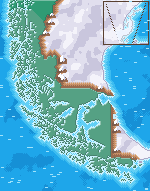
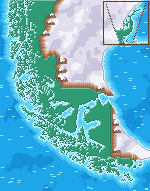
Verde único para lo visitado e ícono de montaña con la bandera de Chile
- Las comunas visitadas se ven todas en el mismo verde (#2f9b74, el que tenía
  Aysén) en vez de un color por zona; mapas PNG regenerados y leyenda ajustada.
- Nuevo ícono de pestaña: montaña nevada con la bandera de Chile en la cumbre
  (favicon.svg, favicon-32.png y apple-touch-icon.png, con ?v=2 para saltarse
  la caché). El logo de la barra superior usa el mismo dibujo.
- build-pages reescribe todas las rutas absolutas de index.html.

Claude-Session: https://claude.ai/code/session_01HrzxiAr7BhjgLdTeuUDqVr

diff --git a/public/index.html b/public/index.html
@@ -6,7 +6,9 @@
   <title>Visited · Chile</title>
   <meta name="description" content="Registra las regiones y comunas de Chile que has visitado. Califica, reseña y mira cómo se pinta tu mapa pixel art.">
   <meta name="theme-color" content="#1ea6ea">
-  <link rel="icon" href="/img/favicon.svg" type="image/svg+xml">
+  <link rel="icon" href="/img/favicon.svg?v=2" type="image/svg+xml">
+  <link rel="icon" href="/img/favicon-32.png?v=2" type="image/png" sizes="32x32">
+  <link rel="apple-touch-icon" href="/img/apple-touch-icon.png?v=2">
   <link rel="preconnect" href="https://fonts.googleapis.com">
   <link rel="preconnect" href="https://fonts.gstatic.com" crossorigin>
   <link href="https://fonts.googleapis.com/css2?family=Pixelify+Sans:wght@400;500;600;700&family=Silkscreen&display=swap" rel="stylesheet">
@@ -16,7 +18,7 @@
   <header class="topbar">
     <div class="wrap topbar-inner">
       <a href="/" class="logo" aria-label="Visited Chile, inicio">
-        <svg class="logo-mark" viewBox="0 0 16 15" shape-rendering="crispEdges" aria-hidden="true"><path fill="#4a3428" d="M8 1h1v1h-1zM8 2h1v1h-1zM8 3h1v1h-1zM8 4h1v1h-1zM8 5h1v1h-1z"/><path fill="#ff6b6b" d="M9 1h1v1h-1zM10 1h1v1h-1zM11 1h1v1h-1zM9 2h1v1h-1zM10 2h1v1h-1zM11 2h1v1h-1zM12 2h1v1h-1zM9 3h1v1h-1zM10 3h1v1h-1z"/><path fill="#ffffff" d="M7 5h1v1h-1zM9 5h1v1h-1zM6 6h1v1h-1zM7 6h1v1h-1zM8 6h1v1h-1zM9 6h1v1h-1zM10 6h1v1h-1zM5 7h1v1h-1zM6 7h1v1h-1zM8 7h1v1h-1zM9 7h1v1h-1zM5 8h1v1h-1zM9 8h1v1h-1z"/><path fill="#cdd2ea" d="M7 7h1v1h-1zM10 7h1v1h-1z"/><path fill="#c68f66" d="M11 7h1v1h-1zM4 8h1v1h-1zM6 8h1v1h-1zM7 8h1v1h-1zM8 8h1v1h-1zM10 8h1v1h-1zM11 8h1v1h-1zM12 8h1v1h-1zM3 9h1v1h-1zM4 9h1v1h-1zM5 9h1v1h-1zM6 9h1v1h-1zM7 9h1v1h-1zM8 9h1v1h-1zM10 9h1v1h-1zM11 9h1v1h-1zM12 9h1v1h-1zM13 9h1v1h-1zM2 10h1v1h-1zM3 10h1v1h-1zM5 10h1v1h-1zM6 10h1v1h-1zM7 10h1v1h-1zM8 10h1v1h-1zM9 10h1v1h-1zM10 10h1v1h-1zM11 10h1v1h-1zM13 10h1v1h-1zM14 10h1v1h-1zM1 11h1v1h-1zM2 11h1v1h-1zM3 11h1v1h-1zM4 11h1v1h-1zM5 11h1v1h-1zM6 11h1v1h-1zM7 11h1v1h-1zM9 11h1v1h-1zM10 11h1v1h-1zM11 11h1v1h-1zM12 11h1v1h-1zM13 11h1v1h-1zM14 11h1v1h-1zM15 11h1v1h-1z"/><path fill="#9a6a4e" d="M9 9h1v1h-1zM4 10h1v1h-1zM12 10h1v1h-1zM8 11h1v1h-1z"/><path fill="#4cbf6b" d="M0 12h1v1h-1zM1 12h1v1h-1zM2 12h1v1h-1zM3 12h1v1h-1zM4 12h1v1h-1zM5 12h1v1h-1zM6 12h1v1h-1zM7 12h1v1h-1zM8 12h1v1h-1zM9 12h1v1h-1zM10 12h1v1h-1zM11 12h1v1h-1zM12 12h1v1h-1zM13 12h1v1h-1zM14 12h1v1h-1zM15 12h1v1h-1zM1 13h1v1h-1zM3 13h1v1h-1zM5 13h1v1h-1zM7 13h1v1h-1zM9 13h1v1h-1zM11 13h1v1h-1zM13 13h1v1h-1zM15 13h1v1h-1z"/><path fill="#2f8f4c" d="M0 13h1v1h-1zM2 13h1v1h-1zM4 13h1v1h-1zM6 13h1v1h-1zM8 13h1v1h-1zM10 13h1v1h-1zM12 13h1v1h-1zM14 13h1v1h-1z"/></svg>
+        <svg class="logo-mark" viewBox="0 0 32 32" shape-rendering="crispEdges" aria-hidden="true"><path fill="#7fd0f5" d="M0 0h1v1h-1zM1 0h1v1h-1zM2 0h1v1h-1zM3 0h1v1h-1zM4 0h1v1h-1zM5 0h1v1h-1zM6 0h1v1h-1zM7 0h1v1h-1zM8 0h1v1h-1zM9 0h1v1h-1zM10 0h1v1h-1zM11 0h1v1h-1zM12 0h1v1h-1zM13 0h1v1h-1zM14 0h1v1h-1zM15 0h1v1h-1zM29 0h1v1h-1zM30 0h1v1h-1zM31 0h1v1h-1zM0 1h1v1h-1zM1 1h1v1h-1zM2 1h1v1h-1zM3 1h1v1h-1zM4 1h1v1h-1zM5 1h1v1h-1zM6 1h1v1h-1zM7 1h1v1h-1zM8 1h1v1h-1zM9 1h1v1h-1zM10 1h1v1h-1zM11 1h1v1h-1zM12 1h1v1h-1zM13 1h1v1h-1zM14 1h1v1h-1zM15 1h1v1h-1zM29 1h1v1h-1zM30 1h1v1h-1zM31 1h1v1h-1zM0 2h1v1h-1zM1 2h1v1h-1zM2 2h1v1h-1zM3 2h1v1h-1zM4 2h1v1h-1zM5 2h1v1h-1zM6 2h1v1h-1zM7 2h1v1h-1zM8 2h1v1h-1zM9 2h1v1h-1zM10 2h1v1h-1zM11 2h1v1h-1zM12 2h1v1h-1zM13 2h1v1h-1zM14 2h1v1h-1zM15 2h1v1h-1zM29 2h1v1h-1zM30 2h1v1h-1zM31 2h1v1h-1zM0 3h1v1h-1zM1 3h1v1h-1zM2 3h1v1h-1zM3 3h1v1h-1zM5 3h1v1h-1zM6 3h1v1h-1zM7 3h1v1h-1zM8 3h1v1h-1zM9 3h1v1h-1zM10 3h1v1h-1zM12 3h1v1h-1zM13 3h1v1h-1zM14 3h1v1h-1zM15 3h1v1h-1zM29 3h1v1h-1zM30 3h1v1h-1zM31 3h1v1h-1zM0 4h1v1h-1zM1 4h1v1h-1zM2 4h1v1h-1zM4 4h1v1h-1zM5 4h1v1h-1zM6 4h1v1h-1zM7 4h1v1h-1zM8 4h1v1h-1zM9 4h1v1h-1zM11 4h1v1h-1zM12 4h1v1h-1zM13 4h1v1h-1zM14 4h1v1h-1zM15 4h1v1h-1zM29 4h1v1h-1zM30 4h1v1h-1zM0 5h1v1h-1zM1 5h1v1h-1zM3 5h1v1h-1zM6 5h1v1h-1zM7 5h1v1h-1zM8 5h1v1h-1zM10 5h1v1h-1zM11 5h1v1h-1zM12 5h1v1h-1zM13 5h1v1h-1zM14 5h1v1h-1zM15 5h1v1h-1zM29 5h1v1h-1zM31 5h1v1h-1zM0 6h1v1h-1zM2 6h1v1h-1zM7 6h1v1h-1zM9 6h1v1h-1zM10 6h1v1h-1zM11 6h1v1h-1zM12 6h1v1h-1zM13 6h1v1h-1zM14 6h1v1h-1zM30 6h1v1h-1zM31 6h1v1h-1zM1 7h1v1h-1zM8 7h1v1h-1zM9 7h1v1h-1zM10 7h1v1h-1zM11 7h1v1h-1zM12 7h1v1h-1zM13 7h1v1h-1zM15 7h1v1h-1zM29 7h1v1h-1zM30 7h1v1h-1zM31 7h1v1h-1zM0 8h1v1h-1zM1 8h1v1h-1zM2 8h1v1h-1zM3 8h1v1h-1zM4 8h1v1h-1zM5 8h1v1h-1zM7 8h1v1h-1zM8 8h1v1h-1zM9 8h1v1h-1zM10 8h1v1h-1zM11 8h1v1h-1zM12 8h1v1h-1zM14 8h1v1h-1zM15 8h1v1h-1zM17 8h1v1h-1zM18 8h1v1h-1zM19 8h1v1h-1zM21 8h1v1h-1zM22 8h1v1h-1zM23 8h1v1h-1zM24 8h1v1h-1zM25 8h1v1h-1zM26 8h1v1h-1zM28 8h1v1h-1zM29 8h1v1h-1zM30 8h1v1h-1zM31 8h1v1h-1zM0 9h1v1h-1zM1 9h1v1h-1zM2 9h1v1h-1zM3 9h1v1h-1zM4 9h1v1h-1zM6 9h1v1h-1zM7 9h1v1h-1zM8 9h1v1h-1zM9 9h1v1h-1zM10 9h1v1h-1zM11 9h1v1h-1zM13 9h1v1h-1zM14 9h1v1h-1zM15 9h1v1h-1zM17 9h1v1h-1zM18 9h1v1h-1zM20 9h1v1h-1zM21 9h1v1h-1zM22 9h1v1h-1zM23 9h1v1h-1zM24 9h1v1h-1zM25 9h1v1h-1zM27 9h1v1h-1zM28 9h1v1h-1zM29 9h1v1h-1zM30 9h1v1h-1zM31 9h1v1h-1zM0 10h1v1h-1zM1 10h1v1h-1zM2 10h1v1h-1zM3 10h1v1h-1zM4 10h1v1h-1zM5 10h1v1h-1zM6 10h1v1h-1zM7 10h1v1h-1zM8 10h1v1h-1zM9 10h1v1h-1zM10 10h1v1h-1zM11 10h1v1h-1zM12 10h1v1h-1zM13 10h1v1h-1zM14 10h1v1h-1zM15 10h1v1h-1zM17 10h1v1h-1zM18 10h1v1h-1zM19 10h1v1h-1zM20 10h1v1h-1zM21 10h1v1h-1zM22 10h1v1h-1zM23 10h1v1h-1zM24 10h1v1h-1zM25 10h1v1h-1zM26 10h1v1h-1zM27 10h1v1h-1zM28 10h1v1h-1zM29 10h1v1h-1zM30 10h1v1h-1zM31 10h1v1h-1zM0 11h1v1h-1zM1 11h1v1h-1zM2 11h1v1h-1zM3 11h1v1h-1zM4 11h1v1h-1zM5 11h1v1h-1zM6 11h1v1h-1zM7 11h1v1h-1zM8 11h1v1h-1zM9 11h1v1h-1zM10 11h1v1h-1zM11 11h1v1h-1zM12 11h1v1h-1zM13 11h1v1h-1zM14 11h1v1h-1zM18 11h1v1h-1zM19 11h1v1h-1zM20 11h1v1h-1zM21 11h1v1h-1zM22 11h1v1h-1zM23 11h1v1h-1zM24 11h1v1h-1zM25 11h1v1h-1zM26 11h1v1h-1zM27 11h1v1h-1zM28 11h1v1h-1zM29 11h1v1h-1zM30 11h1v1h-1zM31 11h1v1h-1zM0 12h1v1h-1zM1 12h1v1h-1zM2 12h1v1h-1zM3 12h1v1h-1zM4 12h1v1h-1zM5 12h1v1h-1zM6 12h1v1h-1zM7 12h1v1h-1zM8 12h1v1h-1zM9 12h1v1h-1zM10 12h1v1h-1zM11 12h1v1h-1zM12 12h1v1h-1zM13 12h1v1h-1zM19 12h1v1h-1zM20 12h1v1h-1zM21 12h1v1h-1zM22 12h1v1h-1zM23 12h1v1h-1zM24 12h1v1h-1zM25 12h1v1h-1zM26 12h1v1h-1zM27 12h1v1h-1zM28 12h1v1h-1zM29 12h1v1h-1zM30 12h1v1h-1zM31 12h1v1h-1zM0 13h1v1h-1zM1 13h1v1h-1zM2 13h1v1h-1zM3 13h1v1h-1zM4 13h1v1h-1zM5 13h1v1h-1zM6 13h1v1h-1zM7 13h1v1h-1zM8 13h1v1h-1zM9 13h1v1h-1zM10 13h1v1h-1zM11 13h1v1h-1zM12 13h1v1h-1zM13 13h1v1h-1zM19 13h1v1h-1zM20 13h1v1h-1zM21 13h1v1h-1zM22 13h1v1h-1zM23 13h1v1h-1zM24 13h1v1h-1zM25 13h1v1h-1zM26 13h1v1h-1zM27 13h1v1h-1zM28 13h1v1h-1zM29 13h1v1h-1zM30 13h1v1h-1zM31 13h1v1h-1zM0 14h1v1h-1zM1 14h1v1h-1zM2 14h1v1h-1zM3 14h1v1h-1zM4 14h1v1h-1zM5 14h1v1h-1zM6 14h1v1h-1zM7 14h1v1h-1zM8 14h1v1h-1zM9 14h1v1h-1zM10 14h1v1h-1zM11 14h1v1h-1zM12 14h1v1h-1zM20 14h1v1h-1zM21 14h1v1h-1zM22 14h1v1h-1zM23 14h1v1h-1zM24 14h1v1h-1zM25 14h1v1h-1zM26 14h1v1h-1zM27 14h1v1h-1zM28 14h1v1h-1zM29 14h1v1h-1zM30 14h1v1h-1zM31 14h1v1h-1zM0 15h1v1h-1zM1 15h1v1h-1zM2 15h1v1h-1zM3 15h1v1h-1zM4 15h1v1h-1zM5 15h1v1h-1zM6 15h1v1h-1zM8 15h1v1h-1zM9 15h1v1h-1zM10 15h1v1h-1zM11 15h1v1h-1zM21 15h1v1h-1zM22 15h1v1h-1zM23 15h1v1h-1zM24 15h1v1h-1zM25 15h1v1h-1zM26 15h1v1h-1zM27 15h1v1h-1zM28 15h1v1h-1zM29 15h1v1h-1zM30 15h1v1h-1zM31 15h1v1h-1zM0 16h1v1h-1zM1 16h1v1h-1zM2 16h1v1h-1zM3 16h1v1h-1zM4 16h1v1h-1zM5 16h1v1h-1zM6 16h1v1h-1zM8 16h1v1h-1zM9 16h1v1h-1zM10 16h1v1h-1zM22 16h1v1h-1zM23 16h1v1h-1zM24 16h1v1h-1zM25 16h1v1h-1zM26 16h1v1h-1zM27 16h1v1h-1zM28 16h1v1h-1zM29 16h1v1h-1zM30 16h1v1h-1zM31 16h1v1h-1zM0 17h1v1h-1zM1 17h1v1h-1zM2 17h1v1h-1zM3 17h1v1h-1zM4 17h1v1h-1zM5 17h1v1h-1zM9 17h1v1h-1zM23 17h1v1h-1zM24 17h1v1h-1zM25 17h1v1h-1zM26 17h1v1h-1zM27 17h1v1h-1zM28 17h1v1h-1zM29 17h1v1h-1zM30 17h1v1h-1zM31 17h1v1h-1zM0 18h1v1h-1zM1 18h1v1h-1zM2 18h1v1h-1zM3 18h1v1h-1zM4 18h1v1h-1zM24 18h1v1h-1zM25 18h1v1h-1zM26 18h1v1h-1zM27 18h1v1h-1zM28 18h1v1h-1zM29 18h1v1h-1zM30 18h1v1h-1zM31 18h1v1h-1zM0 19h1v1h-1zM1 19h1v1h-1zM2 19h1v1h-1zM3 19h1v1h-1zM25 19h1v1h-1zM26 19h1v1h-1zM27 19h1v1h-1zM28 19h1v1h-1zM29 19h1v1h-1zM30 19h1v1h-1zM31 19h1v1h-1zM0 20h1v1h-1zM1 20h1v1h-1zM2 20h1v1h-1zM26 20h1v1h-1zM27 20h1v1h-1zM28 20h1v1h-1zM29 20h1v1h-1zM30 20h1v1h-1zM31 20h1v1h-1zM0 21h1v1h-1zM1 21h1v1h-1zM27 21h1v1h-1zM28 21h1v1h-1zM29 21h1v1h-1zM30 21h1v1h-1zM31 21h1v1h-1zM0 22h1v1h-1zM28 22h1v1h-1zM29 22h1v1h-1zM30 22h1v1h-1zM31 22h1v1h-1zM28 23h1v1h-1zM29 23h1v1h-1zM30 23h1v1h-1zM31 23h1v1h-1zM29 24h1v1h-1zM30 24h1v1h-1zM31 24h1v1h-1zM30 25h1v1h-1zM31 25h1v1h-1zM31 26h1v1h-1z"/><path fill="#3b2a2a" d="M16 0h1v1h-1zM17 0h1v1h-1zM18 0h1v1h-1zM19 0h1v1h-1zM20 0h1v1h-1zM21 0h1v1h-1zM22 0h1v1h-1zM23 0h1v1h-1zM24 0h1v1h-1zM25 0h1v1h-1zM26 0h1v1h-1zM27 0h1v1h-1zM28 0h1v1h-1zM28 1h1v1h-1zM28 2h1v1h-1zM28 3h1v1h-1zM28 4h1v1h-1zM28 5h1v1h-1zM28 6h1v1h-1zM16 7h1v1h-1zM17 7h1v1h-1zM18 7h1v1h-1zM19 7h1v1h-1zM20 7h1v1h-1zM21 7h1v1h-1zM22 7h1v1h-1zM23 7h1v1h-1zM24 7h1v1h-1zM25 7h1v1h-1zM26 7h1v1h-1zM27 7h1v1h-1zM28 7h1v1h-1zM15 11h1v1h-1zM17 11h1v1h-1zM14 12h1v1h-1zM18 12h1v1h-1zM14 13h1v1h-1zM18 13h1v1h-1zM13 14h1v1h-1zM19 14h1v1h-1zM7 15h1v1h-1zM12 15h1v1h-1zM20 15h1v1h-1zM7 16h1v1h-1zM11 16h1v1h-1zM21 16h1v1h-1zM6 17h1v1h-1zM8 17h1v1h-1zM10 17h1v1h-1zM22 17h1v1h-1zM5 18h1v1h-1zM9 18h1v1h-1zM23 18h1v1h-1zM4 19h1v1h-1zM8 19h1v1h-1zM24 19h1v1h-1zM3 20h1v1h-1zM7 20h1v1h-1zM25 20h1v1h-1zM2 21h1v1h-1zM6 21h1v1h-1zM26 21h1v1h-1zM1 22h1v1h-1zM5 22h1v1h-1zM27 22h1v1h-1zM0 23h1v1h-1zM5 23h1v1h-1zM27 23h1v1h-1zM4 24h1v1h-1zM28 24h1v1h-1zM3 25h1v1h-1zM29 25h1v1h-1zM2 26h1v1h-1zM30 26h1v1h-1zM1 27h1v1h-1zM31 27h1v1h-1zM0 28h1v1h-1zM1 28h1v1h-1zM2 28h1v1h-1zM3 28h1v1h-1zM4 28h1v1h-1zM5 28h1v1h-1zM6 28h1v1h-1zM7 28h1v1h-1zM8 28h1v1h-1zM9 28h1v1h-1zM10 28h1v1h-1zM11 28h1v1h-1zM12 28h1v1h-1zM13 28h1v1h-1zM14 28h1v1h-1zM15 28h1v1h-1zM16 28h1v1h-1zM17 28h1v1h-1zM18 28h1v1h-1zM19 28h1v1h-1zM20 28h1v1h-1zM21 28h1v1h-1zM22 28h1v1h-1zM23 28h1v1h-1zM24 28h1v1h-1zM25 28h1v1h-1zM26 28h1v1h-1zM27 28h1v1h-1zM28 28h1v1h-1zM29 28h1v1h-1zM30 28h1v1h-1zM31 28h1v1h-1z"/><path fill="#4a3428" d="M16 1h1v1h-1zM16 2h1v1h-1zM16 3h1v1h-1zM16 4h1v1h-1zM16 5h1v1h-1zM16 6h1v1h-1zM16 8h1v1h-1zM16 9h1v1h-1zM16 10h1v1h-1z"/><path fill="#1f5fbf" d="M17 1h1v1h-1zM18 1h1v1h-1zM20 1h1v1h-1zM17 2h1v1h-1zM20 2h1v1h-1zM17 3h1v1h-1zM19 3h1v1h-1zM20 3h1v1h-1z"/><path fill="#ffffff" d="M19 1h1v1h-1zM21 1h1v1h-1zM22 1h1v1h-1zM23 1h1v1h-1zM24 1h1v1h-1zM25 1h1v1h-1zM26 1h1v1h-1zM27 1h1v1h-1zM18 2h1v1h-1zM19 2h1v1h-1zM21 2h1v1h-1zM22 2h1v1h-1zM23 2h1v1h-1zM24 2h1v1h-1zM25 2h1v1h-1zM26 2h1v1h-1zM27 2h1v1h-1zM18 3h1v1h-1zM21 3h1v1h-1zM22 3h1v1h-1zM23 3h1v1h-1zM24 3h1v1h-1zM25 3h1v1h-1zM26 3h1v1h-1zM27 3h1v1h-1zM4 5h1v1h-1zM5 5h1v1h-1zM3 6h1v1h-1zM4 6h1v1h-1zM5 6h1v1h-1zM6 6h1v1h-1zM2 7h1v1h-1zM3 7h1v1h-1zM4 7h1v1h-1zM5 7h1v1h-1zM6 7h1v1h-1zM7 7h1v1h-1zM16 11h1v1h-1zM15 12h1v1h-1zM16 12h1v1h-1zM15 13h1v1h-1zM16 13h1v1h-1zM14 14h1v1h-1zM15 14h1v1h-1zM16 14h1v1h-1zM13 15h1v1h-1zM14 15h1v1h-1zM15 15h1v1h-1zM16 15h1v1h-1zM13 16h1v1h-1zM14 16h1v1h-1zM16 16h1v1h-1zM14 17h1v1h-1z"/><path fill="#a8e0fa" d="M4 3h1v1h-1zM11 3h1v1h-1zM3 4h1v1h-1zM10 4h1v1h-1zM31 4h1v1h-1zM2 5h1v1h-1zM9 5h1v1h-1zM30 5h1v1h-1zM1 6h1v1h-1zM8 6h1v1h-1zM15 6h1v1h-1zM29 6h1v1h-1zM0 7h1v1h-1zM14 7h1v1h-1zM6 8h1v1h-1zM13 8h1v1h-1zM20 8h1v1h-1zM27 8h1v1h-1zM5 9h1v1h-1zM12 9h1v1h-1zM19 9h1v1h-1zM26 9h1v1h-1z"/><path fill="#d52b1e" d="M17 4h1v1h-1zM18 4h1v1h-1zM19 4h1v1h-1zM20 4h1v1h-1zM21 4h1v1h-1zM22 4h1v1h-1zM23 4h1v1h-1zM24 4h1v1h-1zM25 4h1v1h-1zM26 4h1v1h-1zM27 4h1v1h-1zM17 5h1v1h-1zM18 5h1v1h-1zM19 5h1v1h-1zM20 5h1v1h-1zM21 5h1v1h-1zM22 5h1v1h-1zM23 5h1v1h-1zM24 5h1v1h-1zM25 5h1v1h-1zM26 5h1v1h-1zM27 5h1v1h-1zM17 6h1v1h-1zM18 6h1v1h-1zM19 6h1v1h-1zM20 6h1v1h-1zM21 6h1v1h-1zM22 6h1v1h-1zM23 6h1v1h-1zM24 6h1v1h-1zM25 6h1v1h-1zM26 6h1v1h-1zM27 6h1v1h-1z"/><path fill="#cfd6ee" d="M17 12h1v1h-1zM17 13h1v1h-1zM17 14h1v1h-1zM18 14h1v1h-1zM17 15h1v1h-1zM18 15h1v1h-1zM19 15h1v1h-1zM17 16h1v1h-1zM19 16h1v1h-1zM20 16h1v1h-1zM7 17h1v1h-1zM17 17h1v1h-1z"/><path fill="#c68f66" d="M12 16h1v1h-1zM11 17h1v1h-1zM12 17h1v1h-1zM13 17h1v1h-1zM10 18h1v1h-1zM11 18h1v1h-1zM12 18h1v1h-1zM13 18h1v1h-1zM9 19h1v1h-1zM10 19h1v1h-1zM11 19h1v1h-1zM12 19h1v1h-1zM13 19h1v1h-1zM8 20h1v1h-1zM9 20h1v1h-1zM10 20h1v1h-1zM11 20h1v1h-1zM12 20h1v1h-1zM13 20h1v1h-1zM7 21h1v1h-1zM8 21h1v1h-1zM9 21h1v1h-1zM10 21h1v1h-1zM11 21h1v1h-1zM12 21h1v1h-1zM13 21h1v1h-1zM6 22h1v1h-1zM7 22h1v1h-1zM8 22h1v1h-1zM9 22h1v1h-1zM10 22h1v1h-1zM11 22h1v1h-1zM12 22h1v1h-1zM13 22h1v1h-1zM6 23h1v1h-1zM7 23h1v1h-1zM8 23h1v1h-1zM9 23h1v1h-1zM10 23h1v1h-1zM11 23h1v1h-1zM12 23h1v1h-1zM13 23h1v1h-1zM5 24h1v1h-1zM6 24h1v1h-1zM7 24h1v1h-1zM8 24h1v1h-1zM9 24h1v1h-1zM10 24h1v1h-1zM11 24h1v1h-1zM12 24h1v1h-1zM13 24h1v1h-1zM4 25h1v1h-1zM5 25h1v1h-1zM6 25h1v1h-1zM7 25h1v1h-1zM8 25h1v1h-1zM9 25h1v1h-1zM10 25h1v1h-1zM11 25h1v1h-1zM12 25h1v1h-1zM13 25h1v1h-1zM3 26h1v1h-1zM4 26h1v1h-1zM5 26h1v1h-1zM6 26h1v1h-1zM7 26h1v1h-1zM8 26h1v1h-1zM9 26h1v1h-1zM10 26h1v1h-1zM11 26h1v1h-1zM12 26h1v1h-1zM13 26h1v1h-1zM2 27h1v1h-1zM3 27h1v1h-1zM4 27h1v1h-1zM5 27h1v1h-1zM6 27h1v1h-1zM7 27h1v1h-1zM8 27h1v1h-1zM9 27h1v1h-1zM10 27h1v1h-1zM11 27h1v1h-1zM12 27h1v1h-1zM13 27h1v1h-1z"/><path fill="#9a6a4e" d="M15 16h1v1h-1zM18 16h1v1h-1zM15 17h1v1h-1zM16 17h1v1h-1zM18 17h1v1h-1zM14 18h1v1h-1zM15 18h1v1h-1zM16 18h1v1h-1zM17 18h1v1h-1zM18 18h1v1h-1zM14 19h1v1h-1zM15 19h1v1h-1zM16 19h1v1h-1zM17 19h1v1h-1zM18 19h1v1h-1zM14 20h1v1h-1zM15 20h1v1h-1zM16 20h1v1h-1zM17 20h1v1h-1zM18 20h1v1h-1zM14 21h1v1h-1zM15 21h1v1h-1zM16 21h1v1h-1zM17 21h1v1h-1zM18 21h1v1h-1zM14 22h1v1h-1zM15 22h1v1h-1zM16 22h1v1h-1zM17 22h1v1h-1zM18 22h1v1h-1zM14 23h1v1h-1zM15 23h1v1h-1zM16 23h1v1h-1zM17 23h1v1h-1zM18 23h1v1h-1zM14 24h1v1h-1zM15 24h1v1h-1zM16 24h1v1h-1zM17 24h1v1h-1zM18 24h1v1h-1zM14 25h1v1h-1zM15 25h1v1h-1zM16 25h1v1h-1zM17 25h1v1h-1zM18 25h1v1h-1zM14 26h1v1h-1zM15 26h1v1h-1zM16 26h1v1h-1zM17 26h1v1h-1zM18 26h1v1h-1zM14 27h1v1h-1zM15 27h1v1h-1zM16 27h1v1h-1zM17 27h1v1h-1zM18 27h1v1h-1z"/><path fill="#74472c" d="M19 17h1v1h-1zM20 17h1v1h-1zM21 17h1v1h-1zM19 18h1v1h-1zM20 18h1v1h-1zM21 18h1v1h-1zM22 18h1v1h-1zM19 19h1v1h-1zM20 19h1v1h-1zM21 19h1v1h-1zM22 19h1v1h-1zM23 19h1v1h-1zM19 20h1v1h-1zM20 20h1v1h-1zM21 20h1v1h-1zM22 20h1v1h-1zM23 20h1v1h-1zM24 20h1v1h-1zM19 21h1v1h-1zM20 21h1v1h-1zM21 21h1v1h-1zM22 21h1v1h-1zM23 21h1v1h-1zM24 21h1v1h-1zM25 21h1v1h-1zM19 22h1v1h-1zM20 22h1v1h-1zM21 22h1v1h-1zM22 22h1v1h-1zM23 22h1v1h-1zM24 22h1v1h-1zM25 22h1v1h-1zM26 22h1v1h-1zM19 23h1v1h-1zM20 23h1v1h-1zM21 23h1v1h-1zM22 23h1v1h-1zM23 23h1v1h-1zM24 23h1v1h-1zM25 23h1v1h-1zM26 23h1v1h-1zM19 24h1v1h-1zM20 24h1v1h-1zM21 24h1v1h-1zM22 24h1v1h-1zM23 24h1v1h-1zM24 24h1v1h-1zM25 24h1v1h-1zM26 24h1v1h-1zM27 24h1v1h-1zM19 25h1v1h-1zM20 25h1v1h-1zM21 25h1v1h-1zM22 25h1v1h-1zM23 25h1v1h-1zM24 25h1v1h-1zM25 25h1v1h-1zM26 25h1v1h-1zM27 25h1v1h-1zM28 25h1v1h-1zM19 26h1v1h-1zM20 26h1v1h-1zM21 26h1v1h-1zM22 26h1v1h-1zM23 26h1v1h-1zM24 26h1v1h-1zM25 26h1v1h-1zM26 26h1v1h-1zM27 26h1v1h-1zM28 26h1v1h-1zM29 26h1v1h-1zM19 27h1v1h-1zM20 27h1v1h-1zM21 27h1v1h-1zM22 27h1v1h-1zM23 27h1v1h-1zM24 27h1v1h-1zM25 27h1v1h-1zM26 27h1v1h-1zM27 27h1v1h-1zM28 27h1v1h-1zM29 27h1v1h-1zM30 27h1v1h-1z"/><path fill="#8a6a5a" d="M6 18h1v1h-1zM5 19h1v1h-1zM6 19h1v1h-1zM4 20h1v1h-1zM5 20h1v1h-1zM6 20h1v1h-1zM3 21h1v1h-1zM4 21h1v1h-1zM5 21h1v1h-1zM2 22h1v1h-1zM3 22h1v1h-1zM4 22h1v1h-1zM1 23h1v1h-1zM2 23h1v1h-1zM3 23h1v1h-1zM4 23h1v1h-1zM0 24h1v1h-1zM1 24h1v1h-1zM2 24h1v1h-1zM3 24h1v1h-1zM0 25h1v1h-1zM1 25h1v1h-1zM2 25h1v1h-1zM0 26h1v1h-1zM1 26h1v1h-1zM0 27h1v1h-1z"/><path fill="#6e5446" d="M7 18h1v1h-1zM8 18h1v1h-1zM7 19h1v1h-1z"/><path fill="#4cbf6b" d="M0 29h1v1h-1zM1 29h1v1h-1zM2 29h1v1h-1zM3 29h1v1h-1zM4 29h1v1h-1zM5 29h1v1h-1zM6 29h1v1h-1zM7 29h1v1h-1zM8 29h1v1h-1zM9 29h1v1h-1zM10 29h1v1h-1zM11 29h1v1h-1zM12 29h1v1h-1zM13 29h1v1h-1zM14 29h1v1h-1zM15 29h1v1h-1zM16 29h1v1h-1zM17 29h1v1h-1zM18 29h1v1h-1zM19 29h1v1h-1zM20 29h1v1h-1zM21 29h1v1h-1zM22 29h1v1h-1zM23 29h1v1h-1zM24 29h1v1h-1zM25 29h1v1h-1zM26 29h1v1h-1zM27 29h1v1h-1zM28 29h1v1h-1zM29 29h1v1h-1zM30 29h1v1h-1zM31 29h1v1h-1zM1 30h1v1h-1zM3 30h1v1h-1zM5 30h1v1h-1zM7 30h1v1h-1zM9 30h1v1h-1zM11 30h1v1h-1zM13 30h1v1h-1zM15 30h1v1h-1zM17 30h1v1h-1zM19 30h1v1h-1zM21 30h1v1h-1zM23 30h1v1h-1zM25 30h1v1h-1zM27 30h1v1h-1zM29 30h1v1h-1zM31 30h1v1h-1z"/><path fill="#2f8f4c" d="M0 30h1v1h-1zM2 30h1v1h-1zM4 30h1v1h-1zM6 30h1v1h-1zM8 30h1v1h-1zM10 30h1v1h-1zM12 30h1v1h-1zM14 30h1v1h-1zM16 30h1v1h-1zM18 30h1v1h-1zM20 30h1v1h-1zM22 30h1v1h-1zM24 30h1v1h-1zM26 30h1v1h-1zM28 30h1v1h-1zM30 30h1v1h-1zM0 31h1v1h-1zM1 31h1v1h-1zM2 31h1v1h-1zM3 31h1v1h-1zM4 31h1v1h-1zM5 31h1v1h-1zM6 31h1v1h-1zM7 31h1v1h-1zM8 31h1v1h-1zM9 31h1v1h-1zM10 31h1v1h-1zM11 31h1v1h-1zM12 31h1v1h-1zM13 31h1v1h-1zM14 31h1v1h-1zM15 31h1v1h-1zM16 31h1v1h-1zM17 31h1v1h-1zM18 31h1v1h-1zM19 31h1v1h-1zM20 31h1v1h-1zM21 31h1v1h-1zM22 31h1v1h-1zM23 31h1v1h-1zM24 31h1v1h-1zM25 31h1v1h-1zM26 31h1v1h-1zM27 31h1v1h-1zM28 31h1v1h-1zM29 31h1v1h-1zM30 31h1v1h-1zM31 31h1v1h-1z"/></svg>
         <span class="logo-text">Visited<small>CHILE</small></span>
       </a>
       <nav class="mainnav" id="mainnav"></nav>

diff --git a/public/css/style.css b/public/css/style.css
@@ -185,8 +185,8 @@ textarea { resize: vertical; width: 100%; line-height: 1.4; }
 .legend { display: flex; align-items: center; gap: 6px 16px; flex-wrap: wrap; color: var(--muted); margin: 12px 0 0; font-size: 15px; }
 .map-toolbar .legend { margin: 0; }
 .legend i { display: inline-block; width: 16px; height: 16px; border: 2px solid var(--brown); margin-right: -10px; vertical-align: -2px; image-rendering: pixelated; }
-.lg-visited { background: linear-gradient(90deg, #f2cc70 50%, #5bbb73 50%); }
-.lg-wish { background: repeating-conic-gradient(#8ece6c 0 25%, #c4c4c7 0 50%) 0 0 / 4px 4px; }
+.lg-visited { background: #2f9b74; }
+.lg-wish { background: repeating-conic-gradient(#2f9b74 0 25%, #c4c4c7 0 50%) 0 0 / 4px 4px; }
 .lg-none { background: #c4c4c7; }
 .region-maps { display: grid; grid-template-columns: repeat(auto-fit, minmax(300px, 1fr)); gap: 24px; margin-bottom: 28px; }
 .region-maps .section-label { margin: 0; padding: 6px 10px; background: var(--card); border-bottom: 3px solid var(--brown); }

diff --git a/docs/ARTE.md b/docs/ARTE.md
@@ -36,7 +36,7 @@ Los pixeles con transparencia menor a 50% no se dibujan. En la imagen grande de 
 | `public/img/maps/santiago.png` | Zoom del Gran Santiago. |
 | `public/img/poster-ocean.png` | Fondo de mar de las imágenes de cada lugar. |
 
-Cada mapa está dibujado **como se ve cuando todo está visitado**: mar, costa, terreno, cordillera y nubes. La web, al mostrarlo:
+Cada mapa está dibujado **como se ve cuando todo está visitado** (todas las comunas en el mismo verde, `#2f9b74`): mar, costa, terreno, cordillera y nubes. La web, al mostrarlo:
 
 - pasa a gris (con niebla) lo que no has visitado,
 - trama lo que está en "Quiero ir",
@@ -47,6 +47,16 @@ Así que basta con dibujar una sola versión. Las imágenes de cada comuna y reg
 En `chile.png` los pixeles **transparentes** son "nada": la web muestra ahí el fondo de la página. Por eso el mar aparece sólo al oeste, en una franja junto a la costa, y al este de la cordillera no hay nada. Al norte de Arica se ve parte del Perú.
 
 **Importante:** qué pixel pertenece a qué comuna no está en el PNG sino en `public/data/maps.json`. Puedes cambiar colores, texturas y detalles libremente, pero si pintas tierra donde la grilla dice "mar" (o al revés), ese pixel no será clickeable ni cambiará de color al visitar. El tamaño del PNG debe ser exactamente el de su grilla (`npm test` lo verifica).
+
+## Ícono de la pestaña y logo
+
+| Archivo | Qué es |
+|---|---|
+| `public/img/favicon.svg` | Ícono de la pestaña (montaña con la bandera de Chile, 32×32). |
+| `public/img/favicon-32.png` | El mismo ícono en PNG, para navegadores sin soporte de SVG. |
+| `public/img/apple-touch-icon.png` | El mismo ícono a 192×192, para la pantalla de inicio del celular. |
+
+El logo de la barra superior es el mismo dibujo, incrustado en `public/index.html`. Si cambias el ícono, sube el número de `?v=2` en los `<link rel="icon">` de `index.html` para que los navegadores no muestren el antiguo guardado en caché.
 
 ## Regenerar desde cero
 
